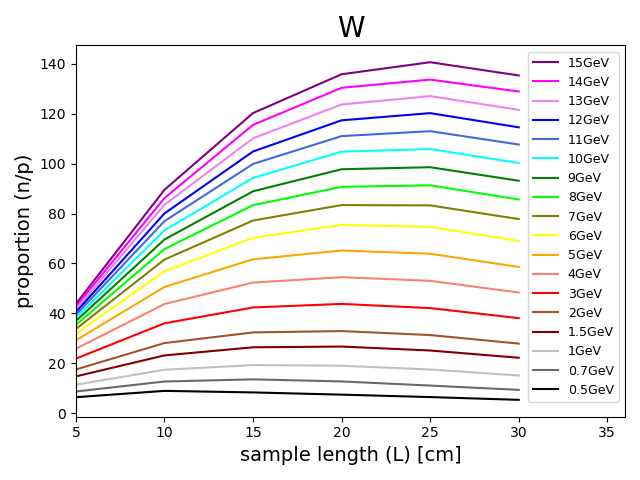
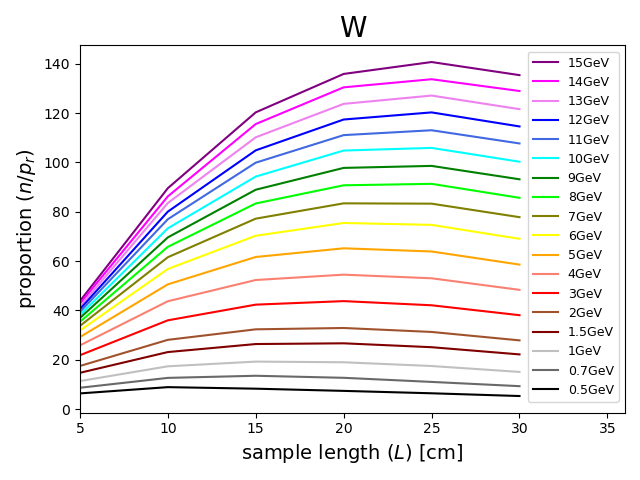
For Iwan with love

diff --git a/data/plot.py b/data/plot.py
@@ -45,6 +45,9 @@ tab = {
     15: "purple",
 }
 
+fig = plt.figure()
+ax = fig.add_subplot()
+
 
 def plot(data, energy):
     totalCounts = {}
@@ -52,7 +55,7 @@ def plot(data, energy):
         totalCounts[i] = (data[i][0] * 2 + data[i][1] * pi / atan(15 / 15)) / (
             100000  # - through.counts[energy][i][0]
         )
-    plt.plot(
+    ax.plot(
         data.keys(),
         totalCounts.values(),
         label=str(energy) + "GeV",
@@ -63,11 +66,11 @@ def plot(data, energy):
 for en in reversed(list(counts.keys())):
     plot(counts[en], en)
 
-plt.legend(prop={"size": 9})
-plt.xlabel("sample length (L) [cm]", size=14)
-plt.ylabel("proportion (n/p)", size=14)
-plt.title(element, size=20)
-plt.xlim([5, 36])
-plt.tight_layout()
-plt.savefig("plots/np(L)" + element + ".png")
-plt.show()
+ax.legend(prop={"size": 9})
+ax.set_xlabel("sample length ($L$) [cm]", size=14)
+ax.set_ylabel("proportion ($n/p_r$)", size=14)
+ax.set_title(element, size=20)
+ax.set_xlim([5, 36])
+fig.tight_layout()
+fig.savefig("plots/np(L)" + element + ".png")
+# plt.show()
